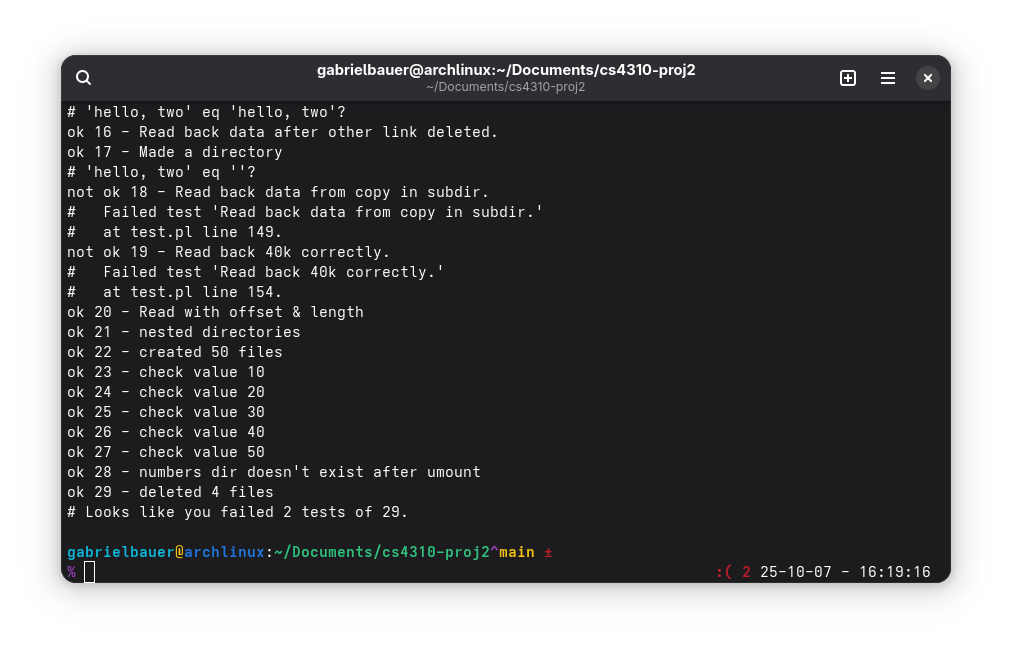
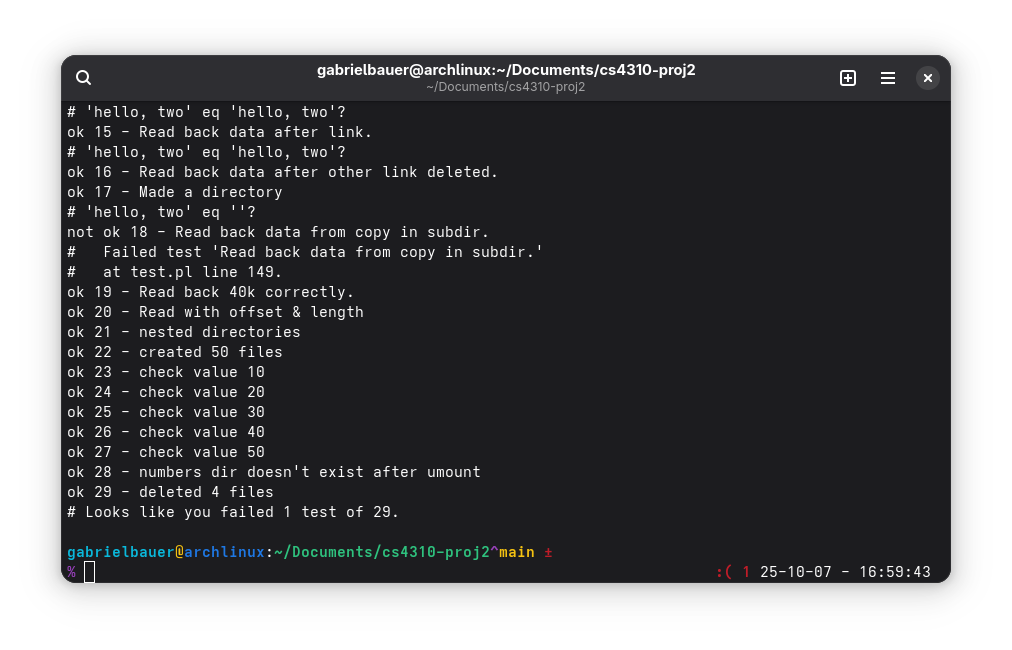
.

Changed region(s): [[0.0613, 0.1846, 0.5208, 0.4615], [0.337, 0.7692, 0.3982, 0.8], [0.8883, 0.8615, 0.919, 0.8923]]

diff --git a/nufs.c b/nufs.c
@@ -335,7 +335,7 @@ nufs_read(const char *path, char *buf, size_t size, off_t offset, struct fuse_fi
 	int remaining = size;
 	off_t current_offset = offset;
 	
-	int i=0;
+	int i;
 	while (remaining > 0) {
 		// Calculate which page we're reading from
 		int page_index = current_offset / 4096;
@@ -344,18 +344,16 @@ nufs_read(const char *path, char *buf, size_t size, off_t offset, struct fuse_fi
 		// Get the physical page number for this logical page
 		int pnum = -1;
 		
-		for (i=0; i < page_index; i++)
+		inode *current = node;
+		for (i=page_index; i >= 2; i-=2)
 		{
-			if (i % 2 == 0 && i>0) {
-				if (node->iptr == 0) {
-					break; // No indirect pointer allocated
-				}
-				node = get_inode(node->iptr);
-				i=0;
+			if (current->iptr == 0) {
+				break; // No indirect pointer allocated
 			}
+			current = get_inode(current->iptr);
 		}
 		// Direct pointer
-		pnum = node->ptrs[i%2];
+		pnum = current->ptrs[i];
 		
 		if (pnum <= 0) {
 			break; // No page allocated here
@@ -401,7 +399,6 @@ nufs_write(const char *path, const char *buf, size_t size, off_t offset, struct 
 		return -ENOENT;
 	}
 	
-	printf("node size = %d\n", node->size);
 	// If writing beyond current size, we need to grow the file
 	if (offset + size > node->size) {
 		int new_size = offset + size;
@@ -412,7 +409,7 @@ nufs_write(const char *path, const char *buf, size_t size, off_t offset, struct 
 	int remaining = size;
 	off_t current_offset = offset;
 	
-	int i=0;
+	int i;
 	while (remaining > 0) {
 		// Calculate which page we're writing to
 		int page_index = current_offset / 4096;
@@ -421,15 +418,12 @@ nufs_write(const char *path, const char *buf, size_t size, off_t offset, struct 
 		// Get the physical page number for this logical page
 		int pnum = -1;
 		
-		for (i=0; i < page_index; i++)
+		for (i=page_index; i >= 2; i-=2)
 		{
-			if (i % 2 == 0 && i>0) {
-				if (node->iptr == 0) {
-					break; // No indirect pointer allocated
-				}
-				node = get_inode(node->iptr);
-				i=0;
+			if (node->iptr == 0) {
+				break; // No indirect pointer allocated
 			}
+			node = get_inode(node->iptr);
 		}
 		// Direct pointer
 		pnum = node->ptrs[i%2];

diff --git a/inode.c b/inode.c
@@ -92,9 +92,9 @@ int shrink_inode(inode* node, int size)
 		return 0;
 	}
 	
-	for (int i=0; i<needed_pages; i++)
+	for (int i=0; i<needed_pages; i+=2)
 	{
-		if (i%2==0&&i>0) temp = get_inode(temp->iptr);
+		if (i>0) temp = get_inode(temp->iptr);
 	}
 	
 	inode *last = node;
